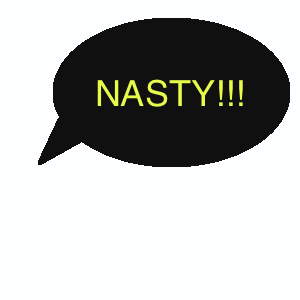
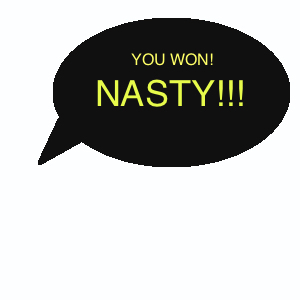
debug

Changed region(s): [[0.42, 0.18, 0.72, 0.24]]

diff --git a/index.html b/index.html
@@ -11,7 +11,8 @@
 <body>
 <div class="container-fluid">
 <div id="header">
-<h1>Guess Trump's best words!<br>Click on any key to start playing!</h1>
+<h1>Guess Trump's best words!</h1><br>
+<h5>Click on any key to start playing!</h5>
 <div id="trumpgame" class="text-danger"></div>
 <br>
 <div><img src="assets/images/trump.jpg"><img id="nasty" src="assets/images/nasty.jpg"></div>
@@ -64,7 +65,9 @@ var guess = event.key.toUpperCase();
    var html = //"<h1>Guess Trump's best words! Click on any key to start playing!</h1>" +
               "<h2>Current Word: " + answerArray+ "</h2>"+
               "<h2>Guesses Remaining: " + lives + "</h2>"+
-              "<h2>Letters Guessed: " + lettersGuessed +"</h2>"; 
+              "<h2>Letters Guessed: " + lettersGuessed +"</h2>"+
+              "<h2>Wins:" + wins + "</h2>"; 
+
              
 
 	document.querySelector('#trumpgame').innerHTML = html;
@@ -72,8 +75,9 @@ var guess = event.key.toUpperCase();
 	//answerArray.join(' ');
 
 	if (remainingLetters===0){
-		document.getElementById('nasty').style.visibility = "visible";
-
+		wins++;
+		document.getElementById('nasty').style.visibility = "visible";	
+        
 		}
 }
      
